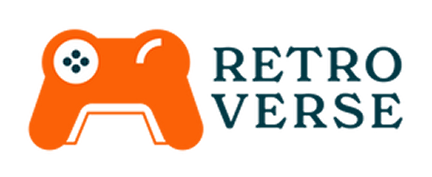
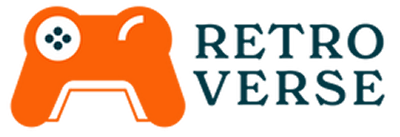
ADD

Changed region(s): [[0.0, 0.0292, 0.96, 0.9343], [0.48, 0.146, 0.96, 0.4672]]

diff --git a/components/homepreview/page.tsx b/components/homepreview/page.tsx
@@ -12,25 +12,11 @@ import Whatyouactuallyget from "@/components/Whatyouactuualyget";
 // Icons
 import {
   ArrowRight,
-  LayoutDashboard,
-  Search,
-  Activity,
-  Zap,
-  TrendingUp,
-  MousePointerClick,
-  Filter,
-  CheckCircle2,
-  RefreshCcw,
-  FlaskConical,
-  Trophy,
-  X,
 } from "lucide-react";
 
 // Assests (Make sure your paths are correct)
 import Star from "@/app/assests/starnew.png";
-import Video1 from "@/app/assests/video1.png";
-import video2 from "@/app/assests/video2.png";
-import video3 from "@/app/assests/video3.png";
+
 import Client1 from "@/app/assests/founder1.png";
 import Client2 from "@/app/assests/founder2.png";
 import Client3 from "@/app/assests/founder3.png";
@@ -43,43 +29,13 @@ import Nostrain from "@/app/assests/Nostrain.png";
 
 // --- TYPES & INTERFACES ---
 
-interface Service {
-  id: number;
-  title: string;
-  desc: string;
-  badge: string;
-  category: string;
-  icon: React.ReactNode;
-  number: string;
-}
 
-interface ResultCard {
-  id: number;
-  title: string;
-  desc: string;
-  badge: string;
-  icon: React.ReactNode;
-}
 
-interface A3Phase {
-  id: number;
-  phase: string;
-  title: string;
-  desc: string;
-  badge: string;
-  icon: React.ReactNode;
-}
 
 interface PhaseDetailCard {
   label: string;
   title: string;
   desc: string;
-}
-
-interface PhaseDetail {
-  title: string;
-  sub: string;
-  cards: PhaseDetailCard[];
 }
 
 interface CaseStudy {
@@ -88,113 +44,13 @@ interface CaseStudy {
   roas: string;
 }
 
-interface Testimonial {
-  image: StaticImageData;
-  role: string;
-}
-
 // --- DATA SCULPTING ---
 
-const servicesData: Service[] = [
-  {
-    id: 1,
-    title: "Meta Ads Management",
-    desc: "We run structured A/B tests across audiences, creatives, and offers — letting data pick your winners, not gut feel.",
-    badge: "↗ Avg. ROAS lift: 1.8-2.4x in 60 days",
-    category: "Paid ads",
-    icon: <LayoutDashboard className="h-6 w-6" />,
-    number: "01",
-  },
-  {
-    id: 2,
-    title: "Google Ads Management",
-    desc: "Search, Shopping, and Performance Max — tuned for purchase intent, not just clicks. Every Dollar tracked to revenue.",
-    badge: "↗ Lower CPAs with intent-first targeting",
-    category: "Paid ads",
-    icon: <Search className="h-6 w-6" />,
-    number: "02",
-  },
-  {
-    id: 3,
-    title: "Ad Creative Strategy & Testing",
-    desc: "15+ creatives tested monthly. UGC, static, motion — we find the one that scales and build more of it.",
-    badge: "↗ Proven creative reduces CPM by 30-40%",
-    category: "Scale",
-    icon: <Zap className="h-6 w-6" />,
-    number: "03",
-  },
-  {
-    id: 4,
-    title: "Funnel Optimisation",
-    desc: "Landing page, checkout, post-purchase — we audit and fix every drop-off point so your ad spend isn't leaking.",
-    badge: "↗ Avg. 20-35% CVR improvement",
-    category: "Funnel",
-    icon: <Filter className="h-6 w-6" />,
-    number: "04",
-  },
-  {
-    id: 5,
-    title: "Conversion Improvements",
-    desc: "CRO, offer framing, social proof placement — the small shifts that turn a 2% converter into a 4% converter.",
-    badge: "↗ More revenue, same ad budget",
-    category: "Funnel",
-    icon: <Activity className="h-6 w-6" />,
-    number: "05",
-  },
-  {
-    id: 6,
-    title: "Scaling Frameworks",
-    desc: "Our A3 model: test winners feed scale campaigns. No random budget hikes — a structured path from 10L to 1Cr Month.",
-    badge: "↗ Modish: ROAS 2.31 → 3.53 in 90 days",
-    category: "Scale",
-    icon: <TrendingUp className="h-6 w-6" />,
-    number: "06",
-  },
-];
-
-const phaseDetails: Record<number, PhaseDetail> = {
-  1: {
-    title: "Phase 1 — Test campaign structure",
-    sub: "Campaign 1 is our structured testing ground. Multiple creative packs, one mission: find your winners.",
-    cards: [
-      { label: "Campaign structure", title: "Broad audience targeting", desc: "We start wide — no interest stacking. Let Meta find who converts first." },
-      { label: "Creative packs", title: "3–4 packs, 3–5 ads each", desc: "Each pack tests a different angle — UGC, static, motion. 15+ ads minimum per month." },
-      { label: "Budget logic", title: "$5k–$30k/day test budget", desc: "Enough data to reach statistical significance in 7–10 days per creative." },
-      { label: "Decision rule", title: "CPA + ROAS threshold", desc: "Any creative hitting our ROAS floor and CPM target moves to Phase 2." },
-    ],
-  },
-  2: {
-    title: "Phase 2 — Winners campaign structure",
-    sub: "Proven creatives get their own campaign with controlled budgets. No more competing with fresh tests.",
-    cards: [
-      { label: "Campaign structure", title: "Isolated winner campaigns", desc: "Each proven creative runs in its own ad set — no cannibalisation from testing." },
-      { label: "Audience layer", title: "Interest stacking begins", desc: "Winners get interest-stacked audiences added progressively to expand reach." },
-      { label: "Budget logic", title: "Budget follows performance", desc: "We increase spend 20–30% every 3 days if ROAS holds. No random hikes." },
-      { label: "Creative refresh", title: "Iteration on winners", desc: "Top performers get 2–3 angle variations tested alongside to extend their life." },
-    ],
-  },
-  3: {
-    title: "Phase 3 — Scale campaign structure",
-    sub: "Maximum budget on maximum proof. Broad + interest stacked + lookalikes — all feeding from the same winner pool.",
-    cards: [
-      { label: "Campaign structure", title: "Aggressive scaling mode", desc: "Scale campaigns run CBO with proven creatives only. No experiments here." },
-      { label: "Audience layer", title: "Lookalike + broad + interest", desc: "Three audience types running simultaneously — we find the cheapest converts." },
-      { label: "Budget logic", title: "$300+/day when ready", desc: "Scale triggers only when ROAS is predictable across 14+ days of data." },
-      { label: "Loop back", title: "Phase 1 keeps running", desc: "Testing never stops. New creatives constantly refresh the winner pool below." },
-    ],
-  },
-};
 
 const caseStudiesData: CaseStudy[] = [
   { logo: retroverse, alt: "Retroverse", roas: "ROAS 2.43 to 4.68" },
   { logo: modish, alt: "Modish", roas: "ROAS 2.31 to 3.53" },
   { logo: Nostrain, alt: "No Strain", roas: "ROAS 1.36 to 2.65" },
-];
-
-const testimonials: Testimonial[] = [
-  { image: Video1, role: "Founder, Retroverse" },
-  { image: video2, role: "Marketing Head, Modish" },
-  { image: video3, role: "CEO, No Strain" },
 ];
 
 export default function HomePage() {
@@ -269,7 +125,7 @@ export default function HomePage() {
               {[...caseStudiesData, ...caseStudiesData, ...caseStudiesData].map((study, i) => (
                 <div key={i} className="flex shrink-0 items-center gap-3 sm:gap-4">
                   <div className="relative h-6 w-auto max-w-[90px] sm:h-8 sm:max-w-[110px]">
-                    <Image src={study.logo} alt={`${study.alt} logo`} className="h-full w-auto object-contain" />
+                    <Image src={study.logo} alt={`${study.alt} logo`} className="w-auto h-[30px] " />
                   </div>
                   <span className="font-Montserrat text-sm font-bold tracking-tight text-[#0F172A] sm:text-base md:text-lg">
                     {study.roas}